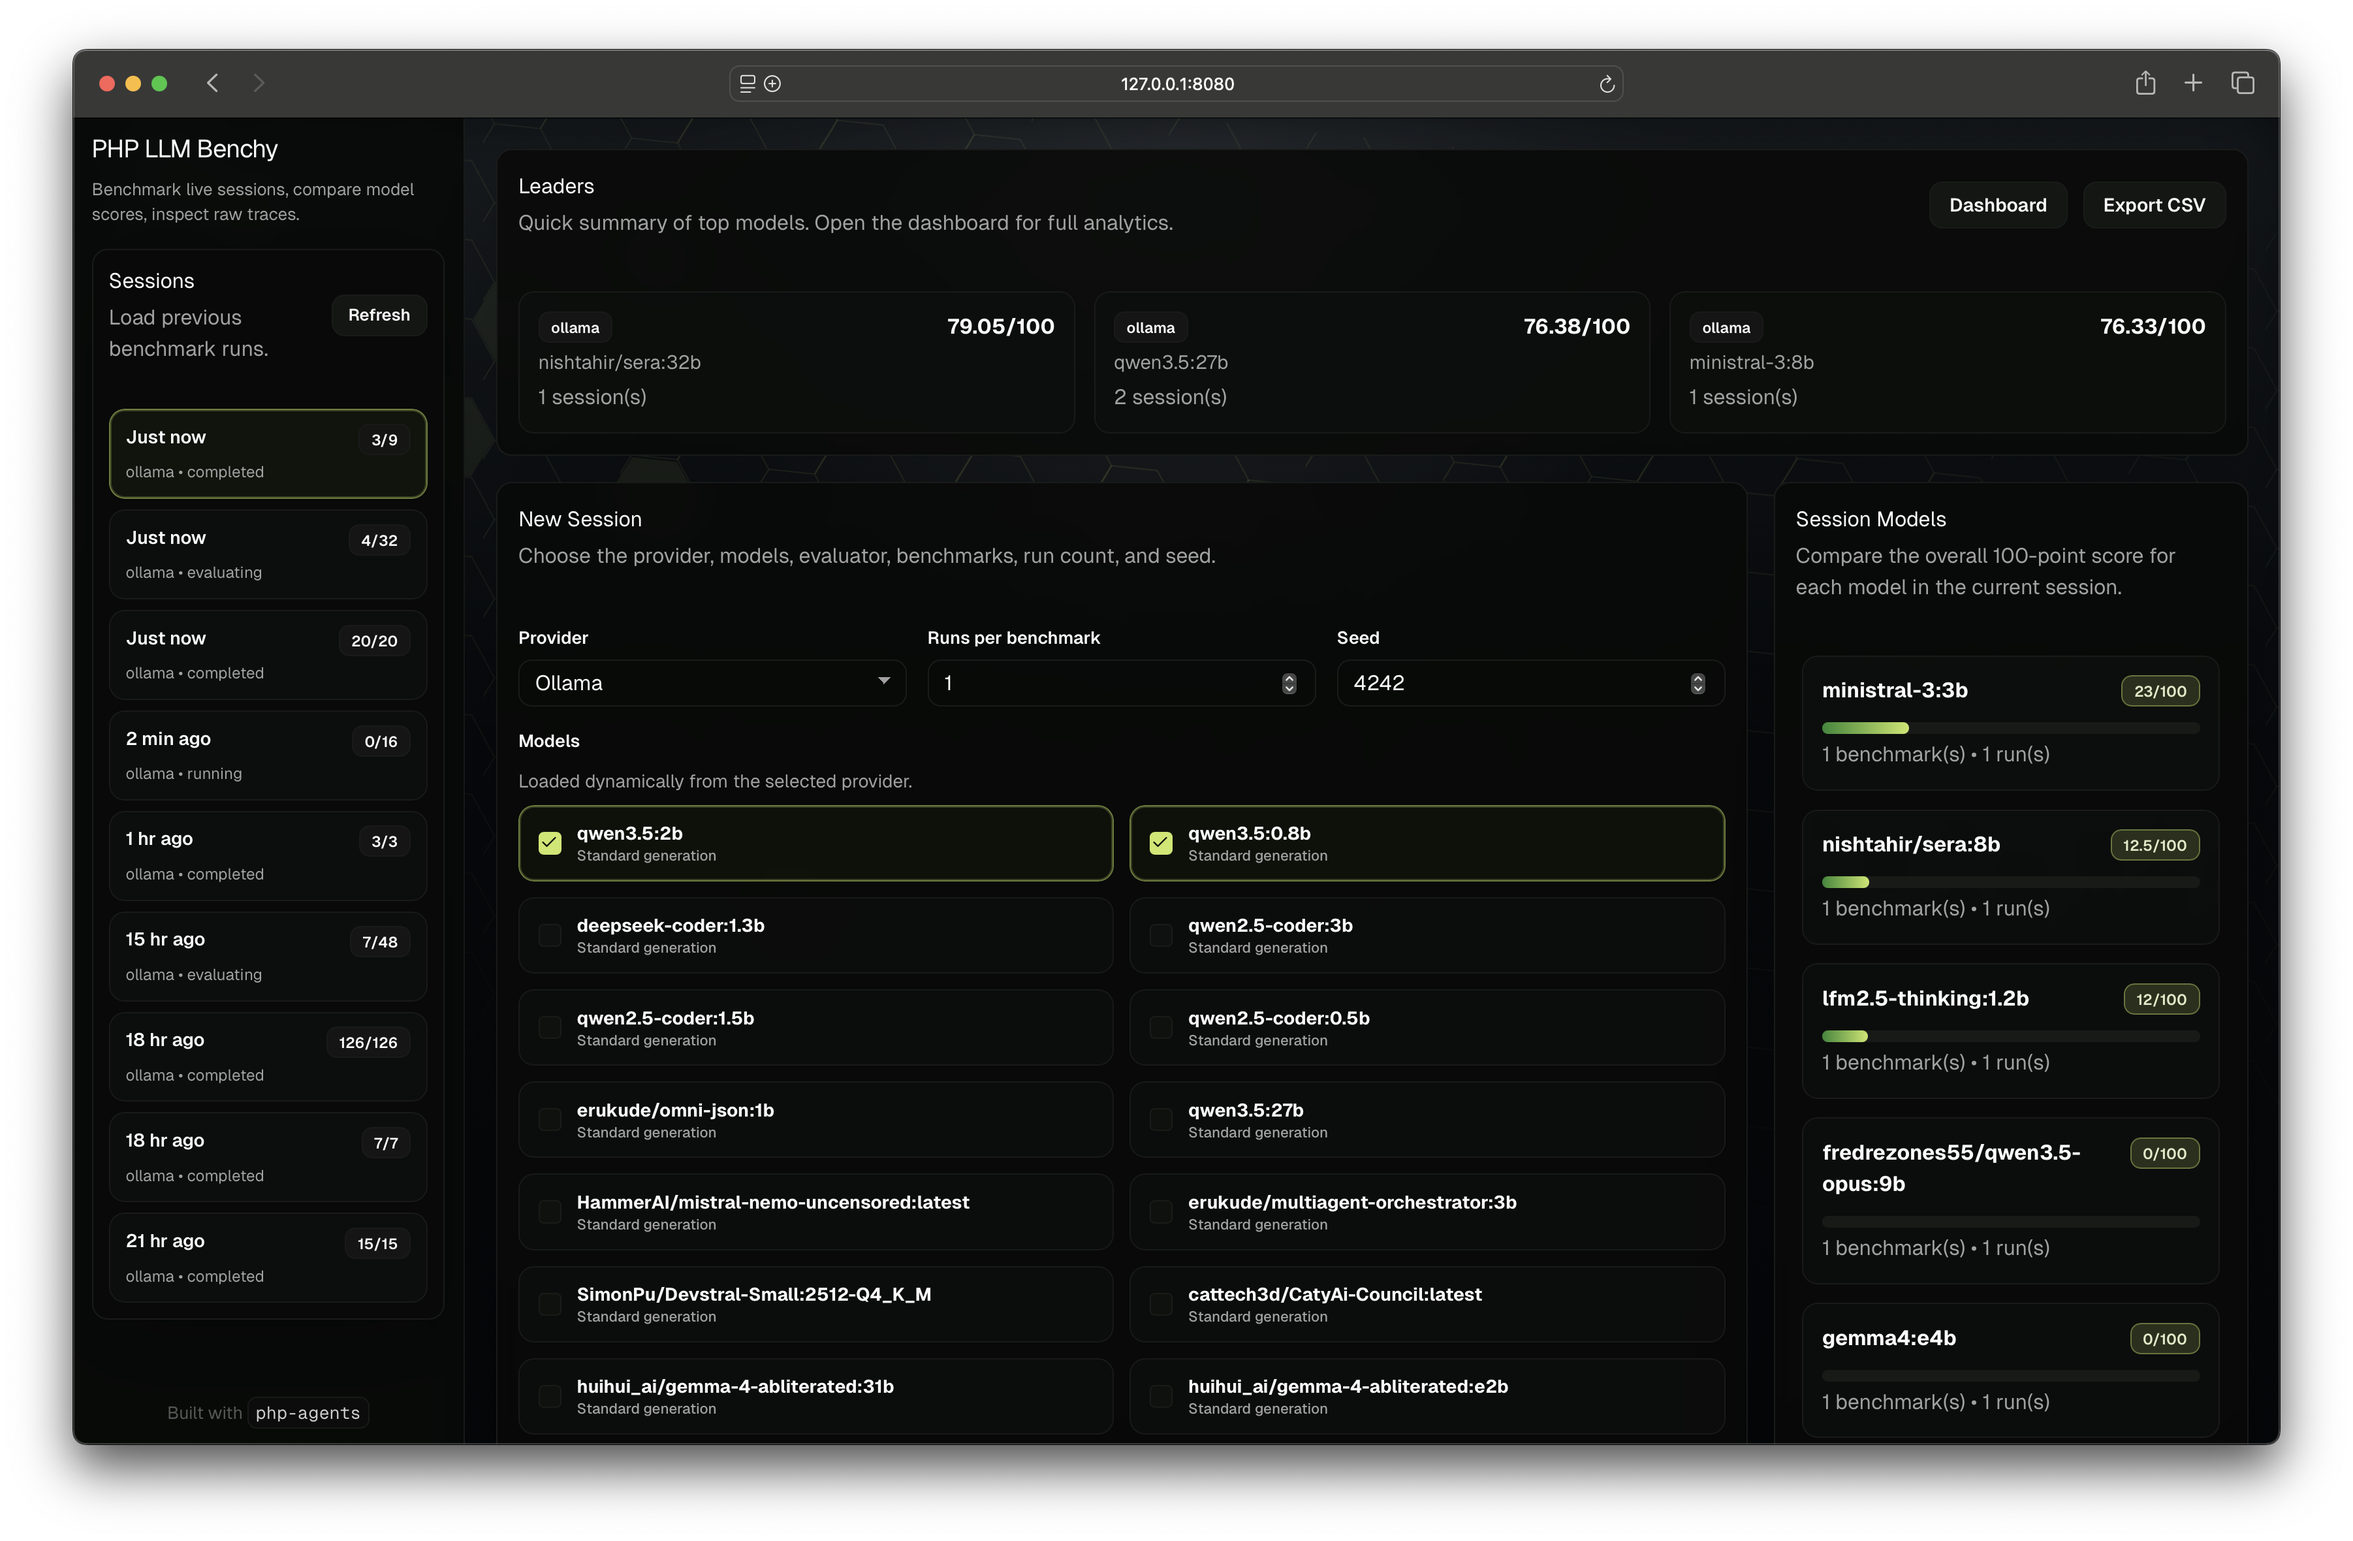
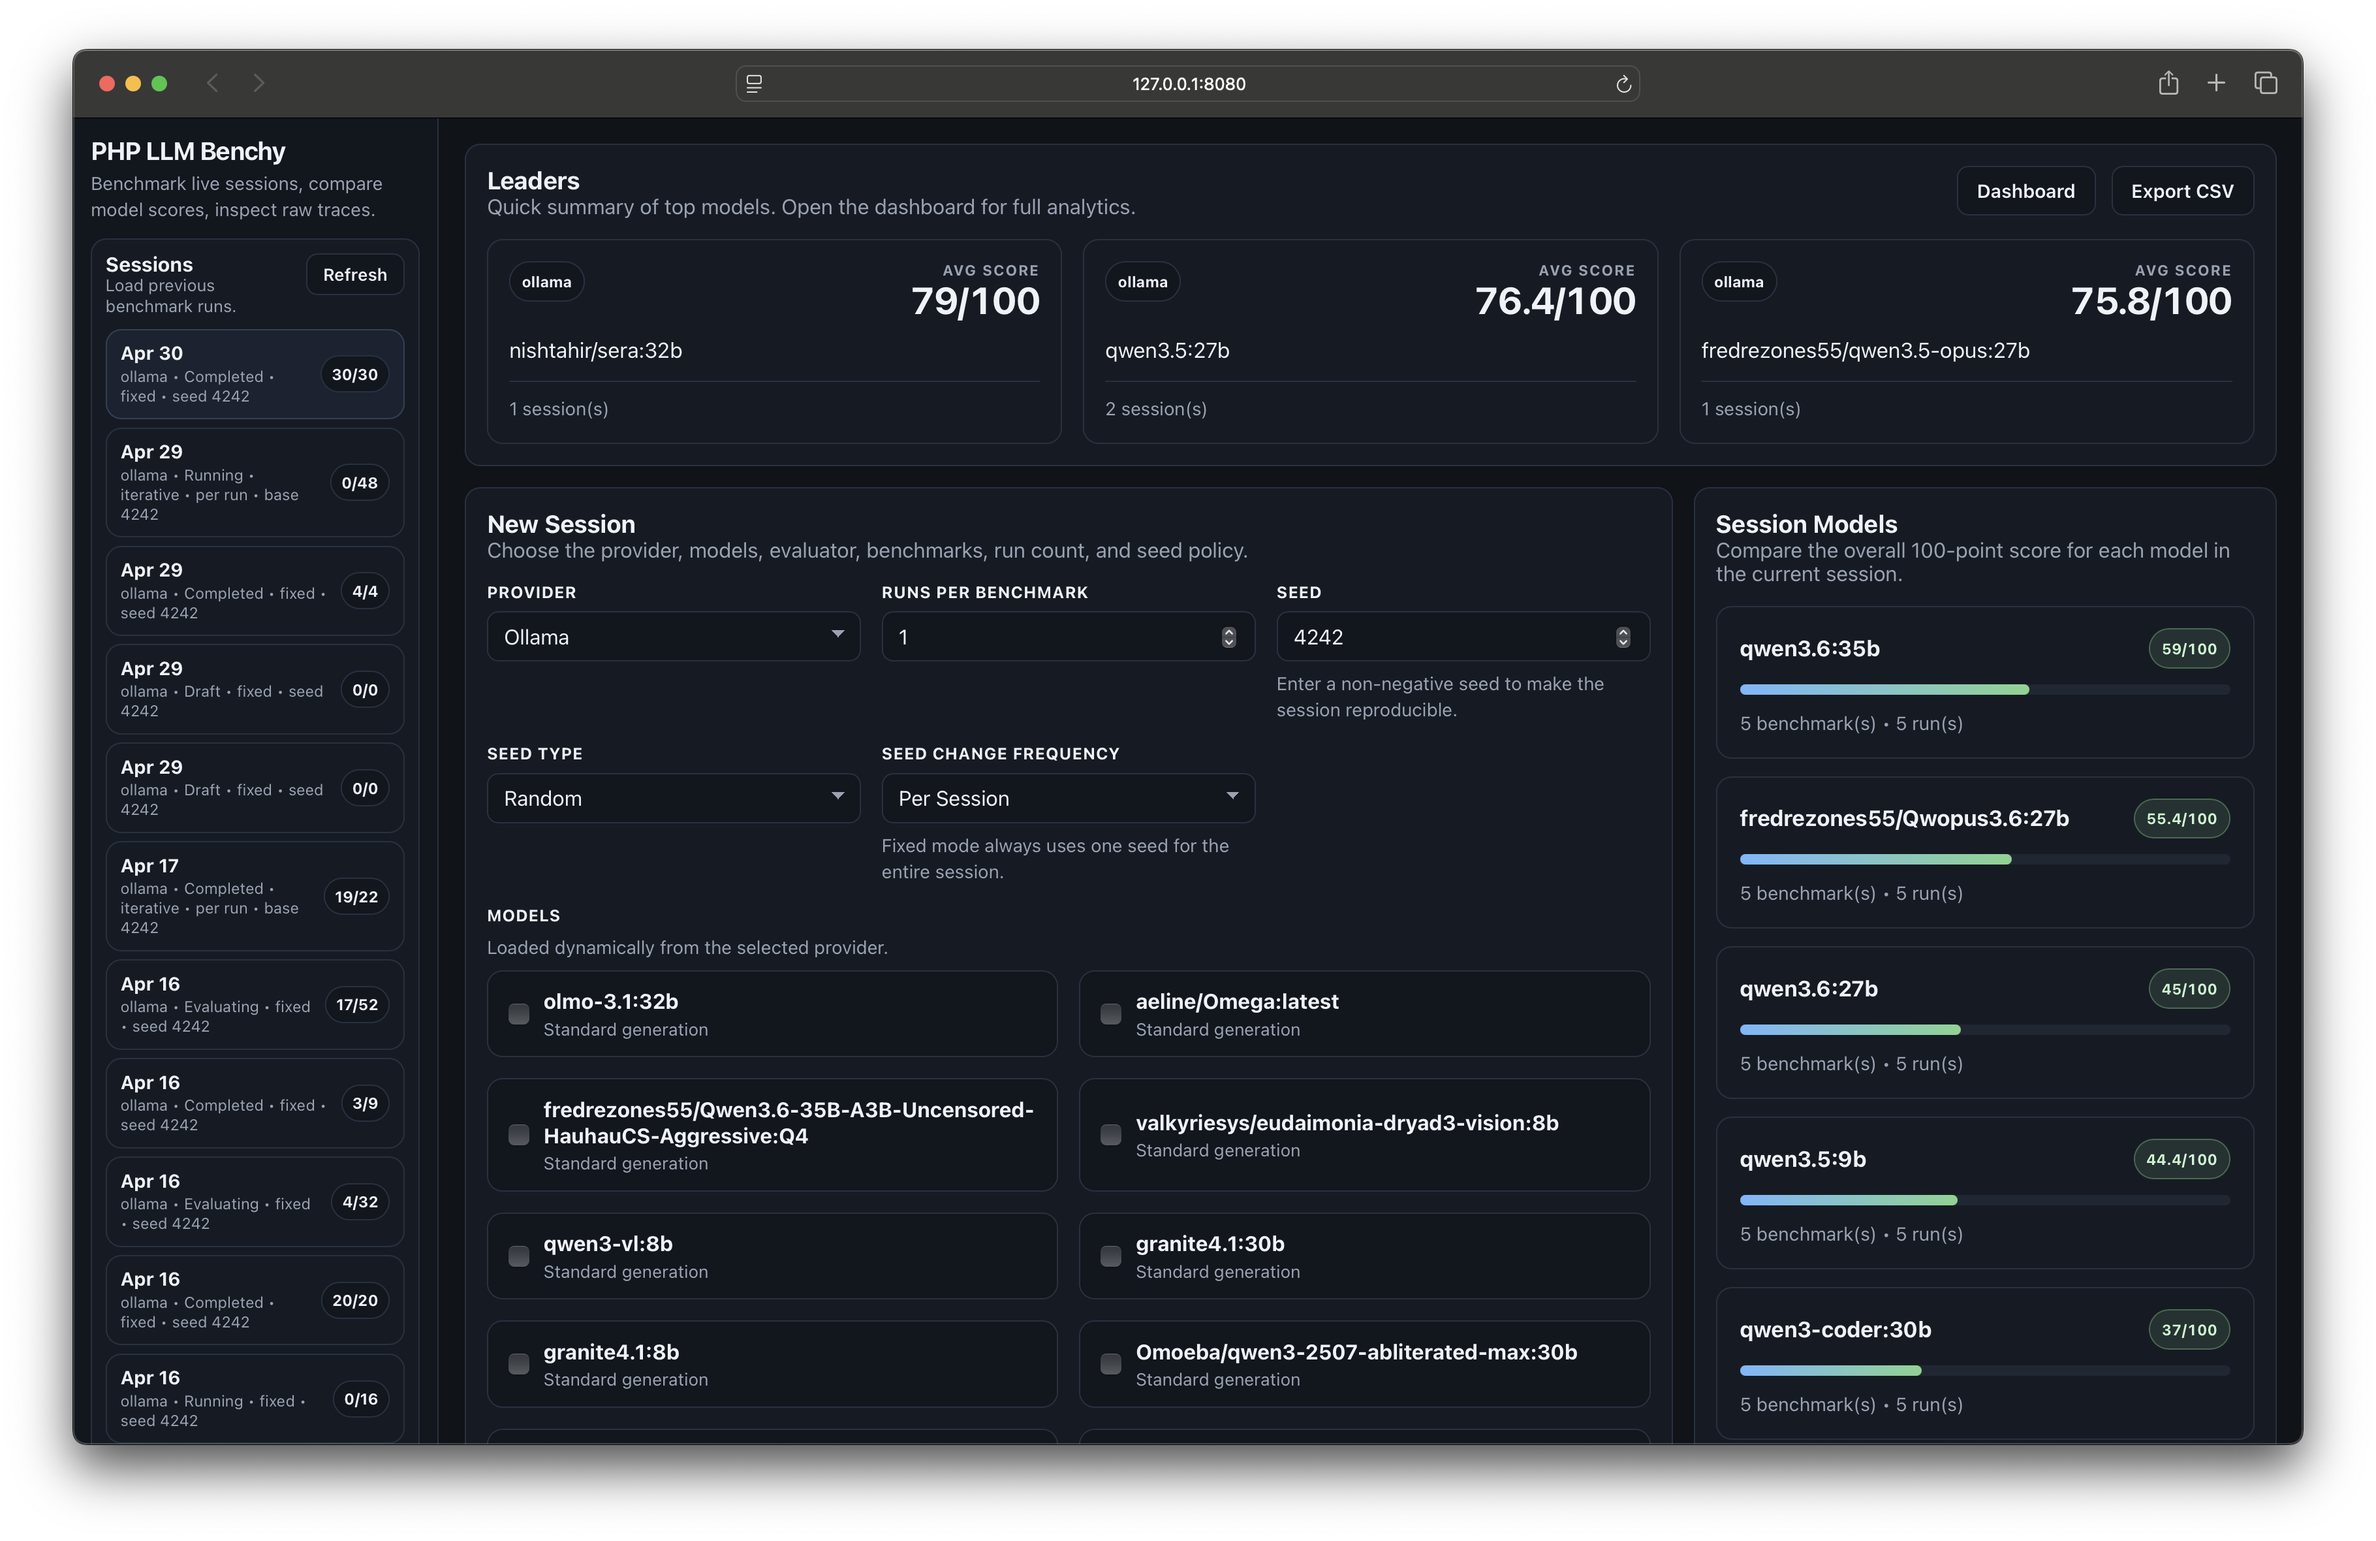
Add new screenshot to README

diff --git a/README.md b/README.md
@@ -14,6 +14,9 @@
     <picture>
         <img src="public/assets/screenshot-01.png" alt="PHP LLM Benchy Screenshot" width="800" />
     </picture>
+    <picture>
+        <img src="public/assets/screenshot-02.png" alt="Score Breakdown" width="800" />
+    </picture>    
 </p>
 
 ## What it does
